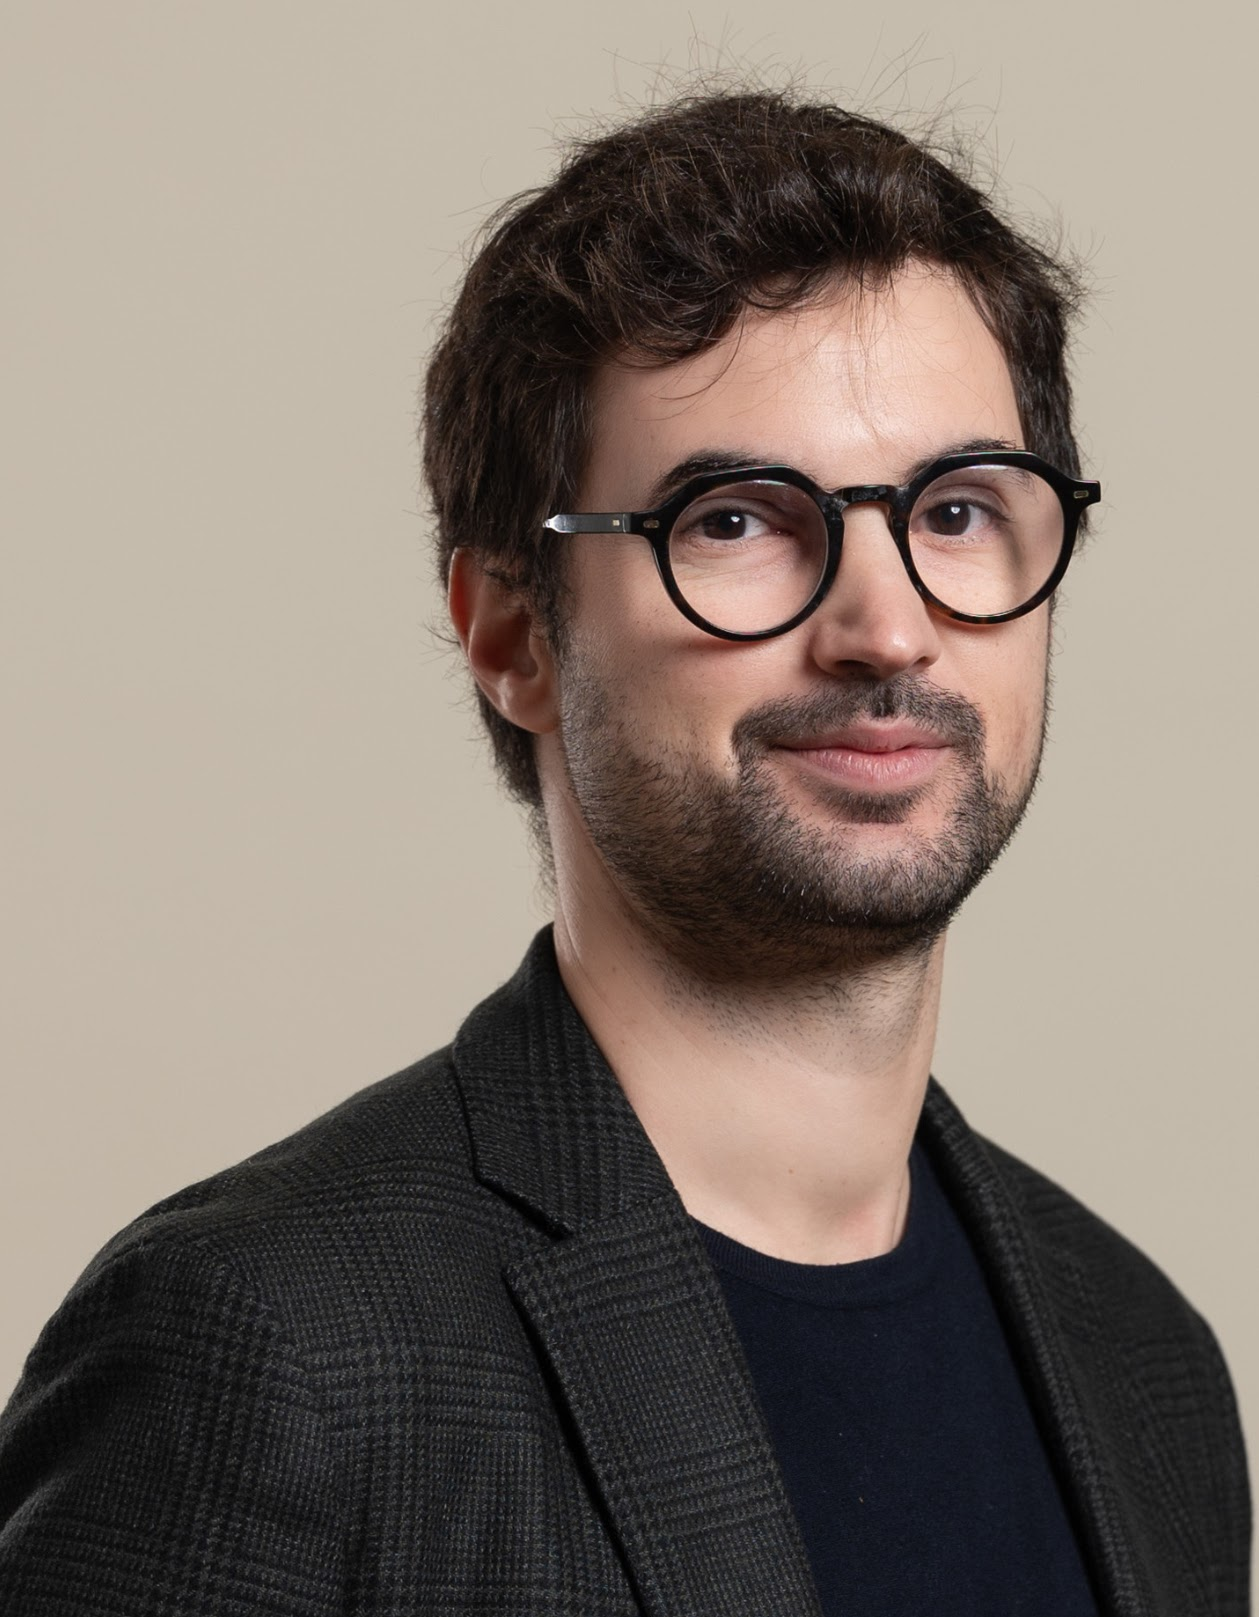
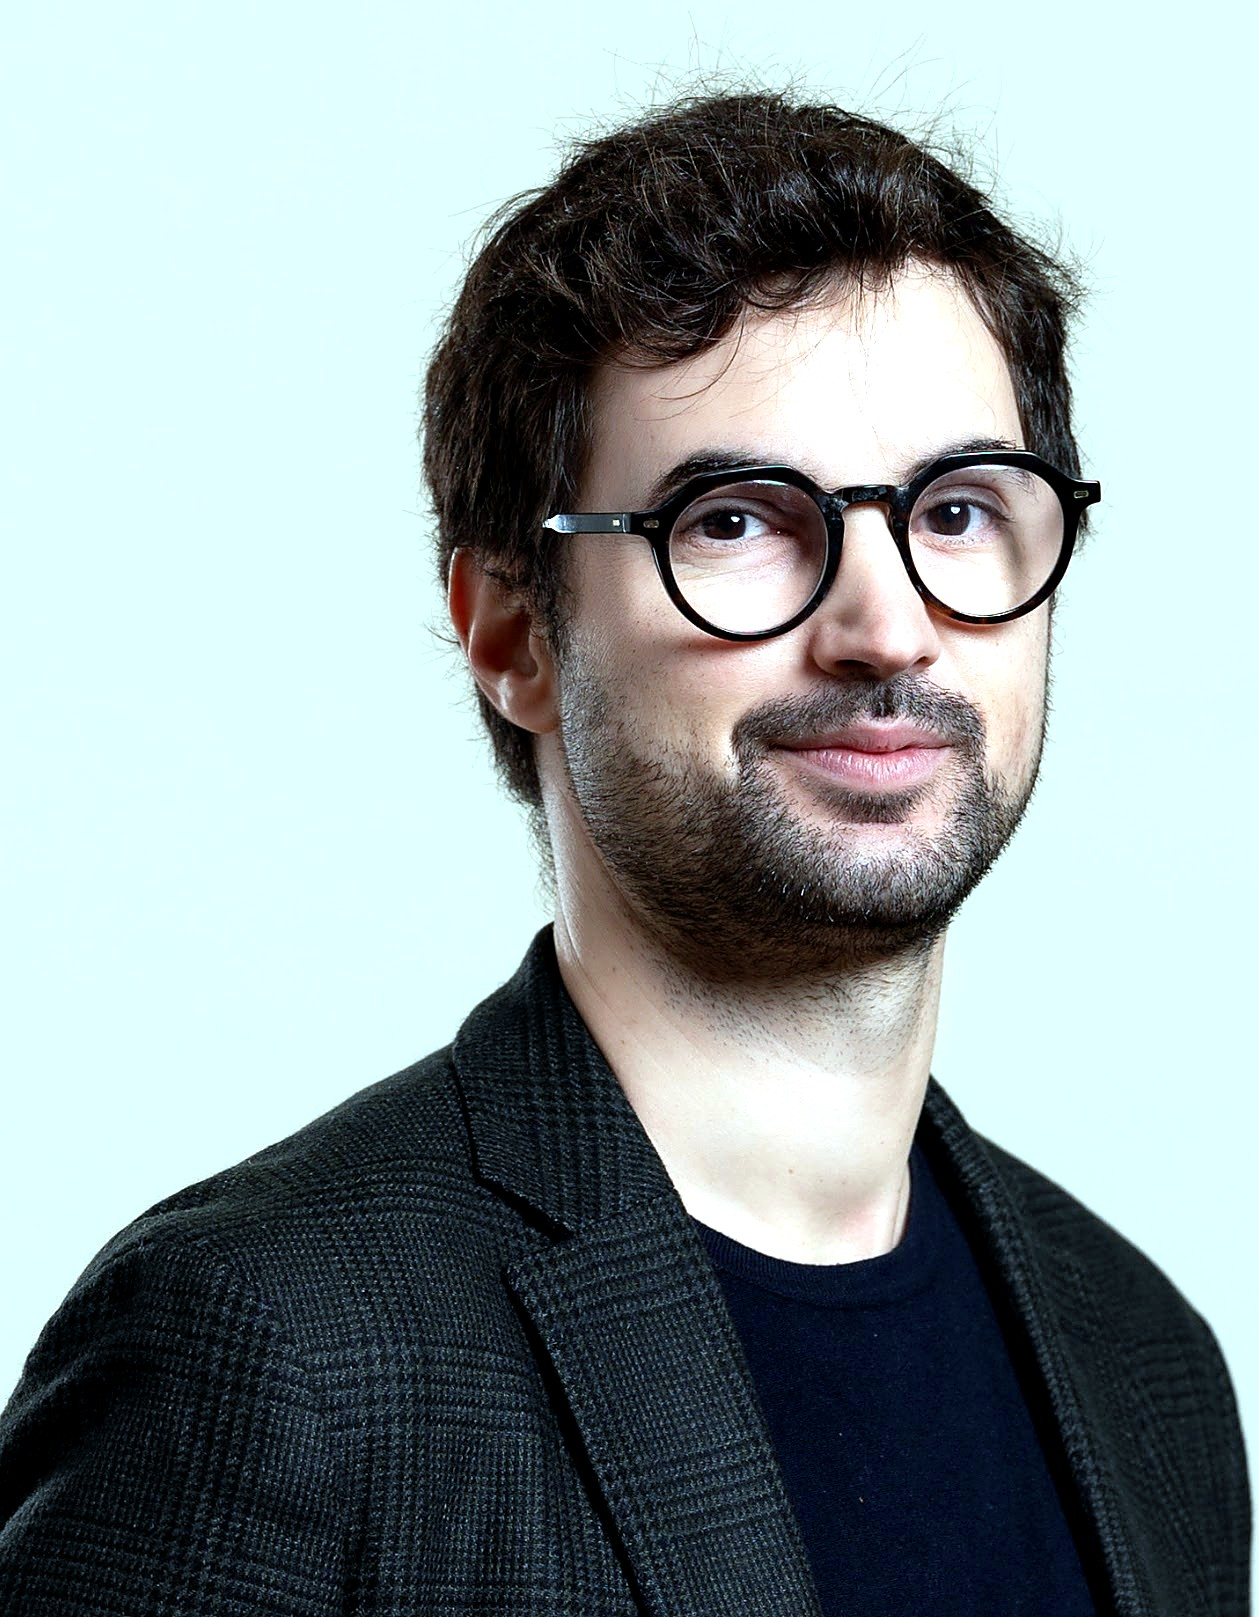
Enhance headshot and crop circular on homepage
- Pillow pass on prof_pic.jpg: autocontrast + small brightness/contrast/
  saturation lift + subtle unsharp mask. Lifts shadows and brightens
  the image. Original kept as prof_pic_original.jpg for revertability.
- about.md: image_circular: true so the avatar is a circle, hiding the
  rectangular photo background that didn't blend with the page.

diff --git a/_pages/about.md b/_pages/about.md
@@ -7,7 +7,7 @@ subtitle: <strong>Associate Professor of Economics</strong> · Ramón y Cajal Fe
 profile:
   align: right
   image: prof_pic.jpg
-  image_circular: false
+  image_circular: true
   more_info: >
     <p><strong>CUNEF Universidad</strong></p>
     <p>Despacho F4.5</p>